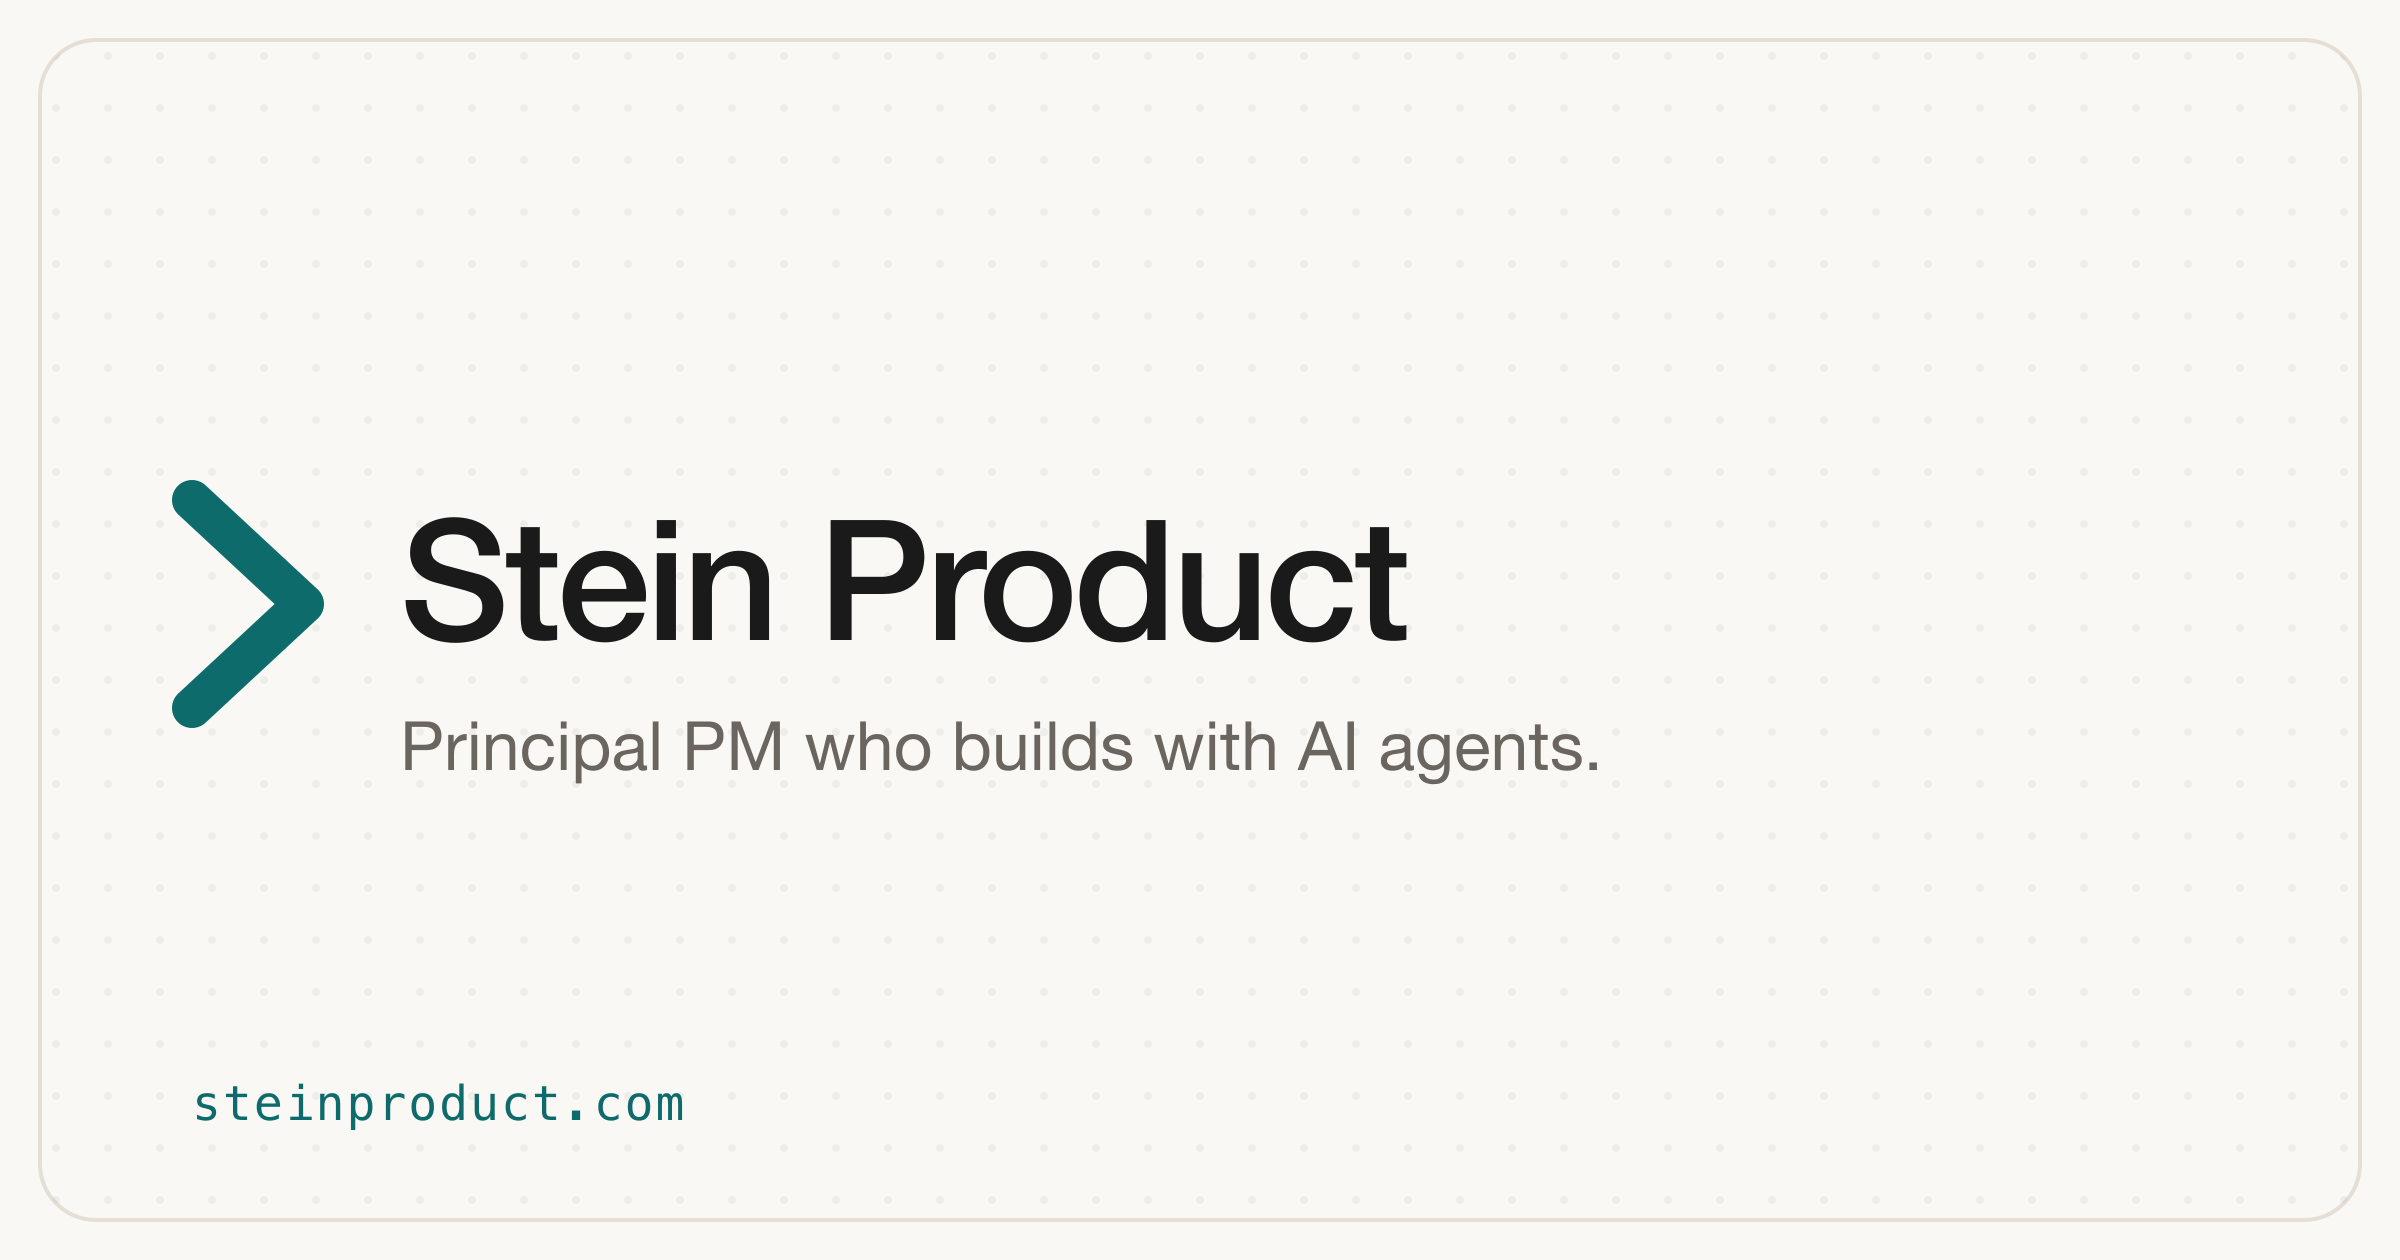
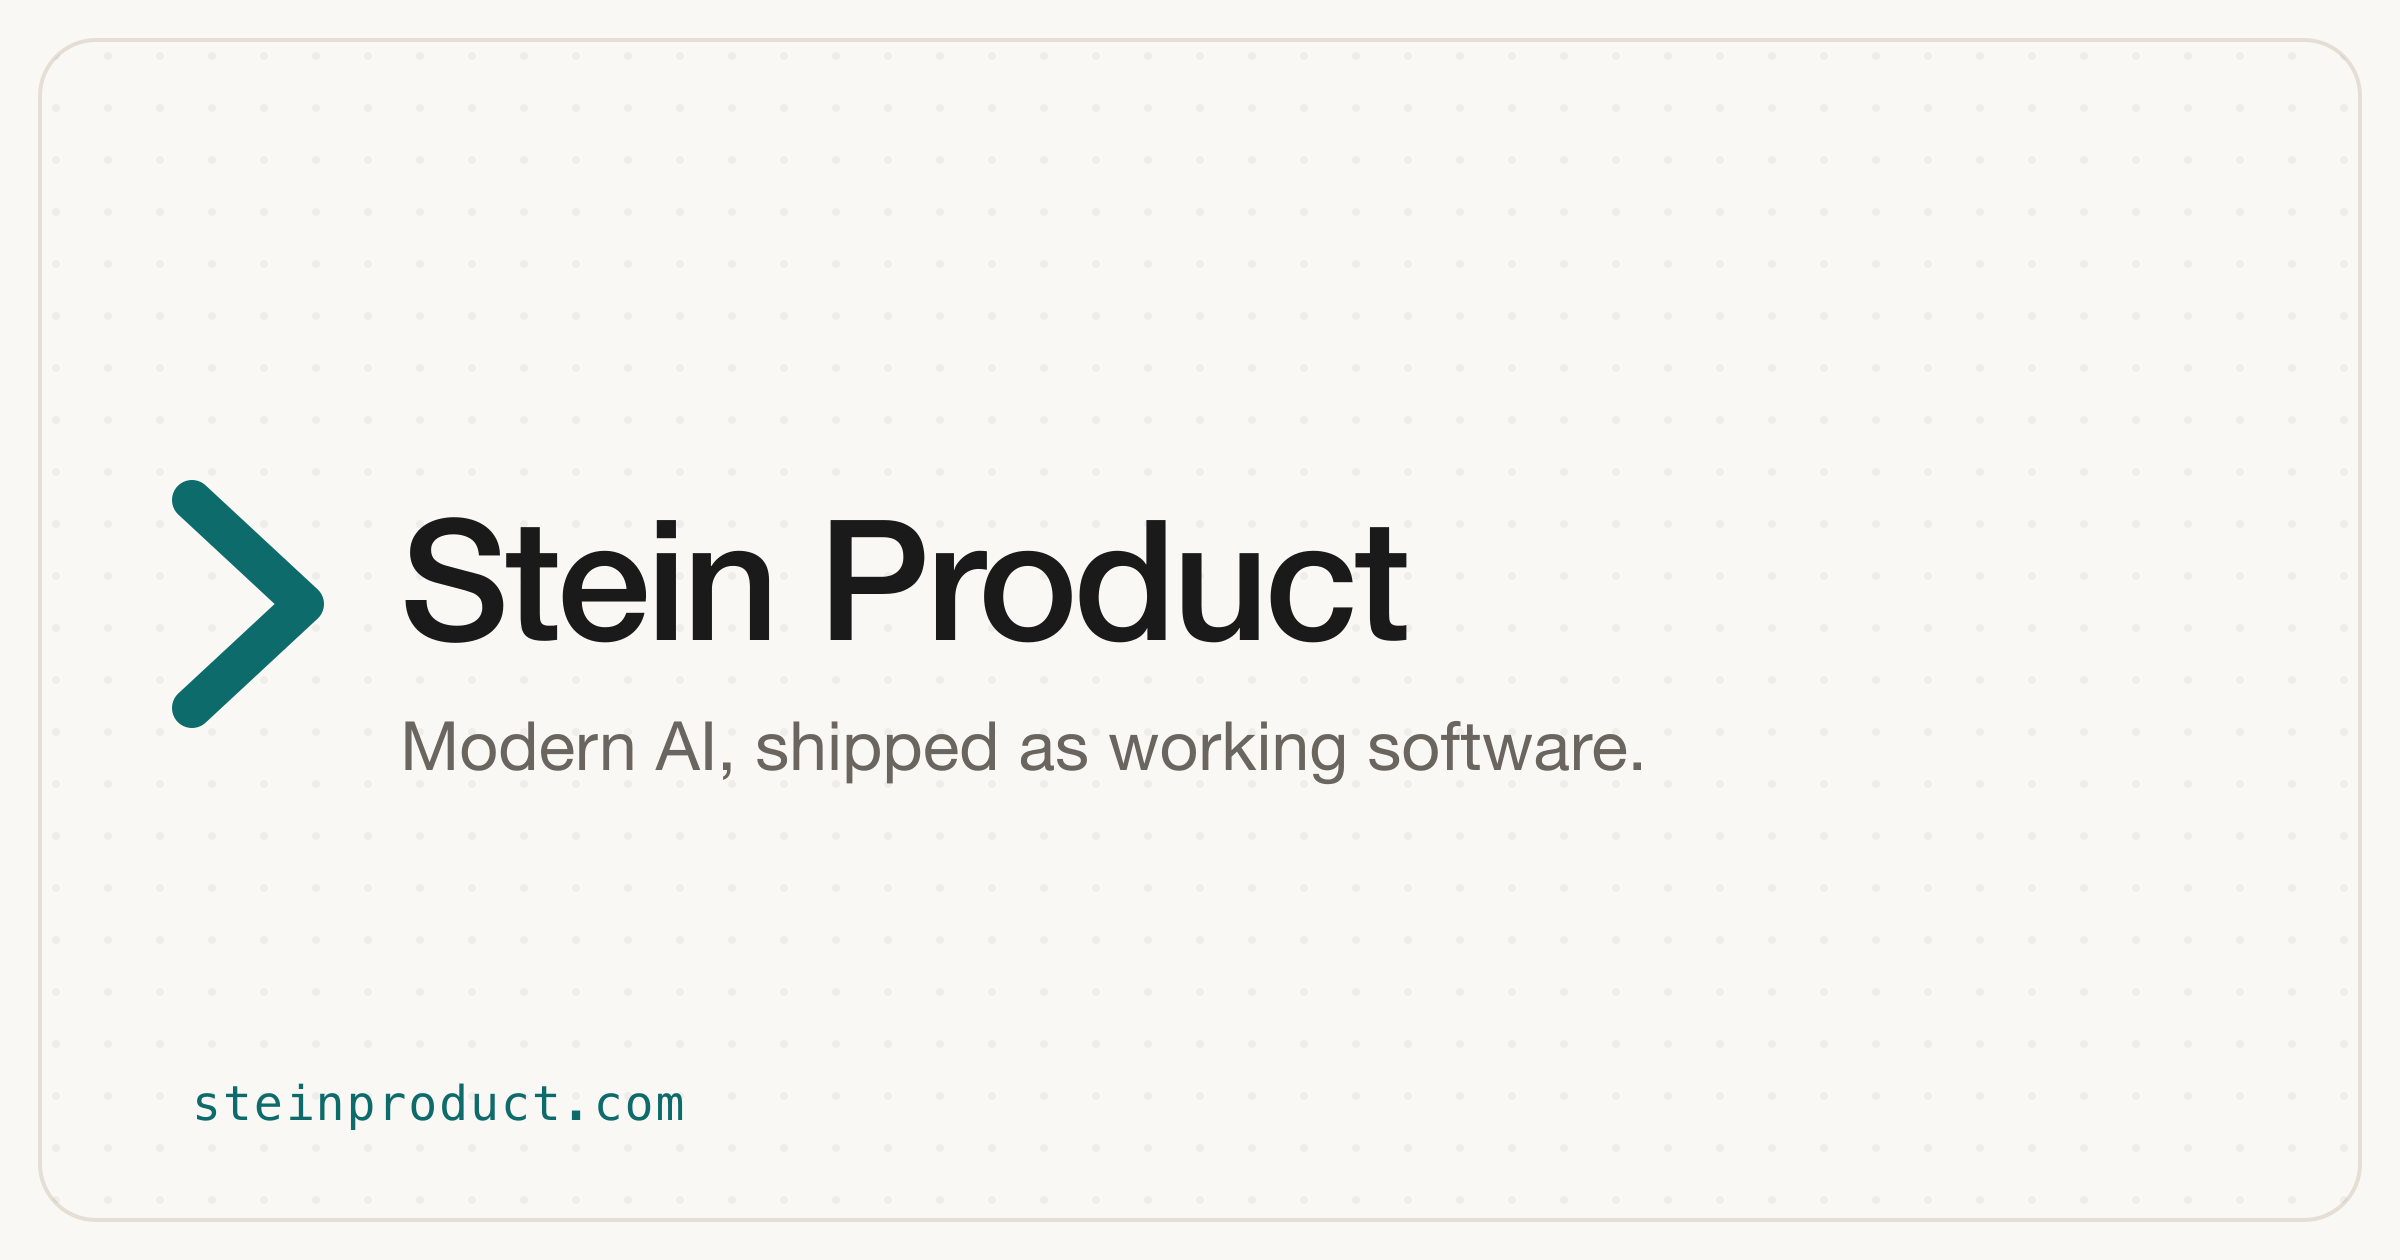
Reposition the site to firm-led, named-principal voice
Supersedes the site-wide first-person voice from the 2026-07-14 conversion
audit. Structural copy now speaks as Stein Product; Jacob stays the named
principal where the claim is personal.

- hero + layout meta: the approved practice-voice subhead, retitled around
  consulting, and "AI agents" swapped for "AI assistants" in keywords.
- services/faq/process/projects: practice as subject, or second person where a
  named subject read stiff. Promises keep a live subject rather than going
  passive — "you get a narrower scope" over "the scope narrows".
- process step 2 becomes "Built for you, then handed over"; it can't take "we",
  which here means client plus consultant, and the step's point is that the
  client doesn't do the work.
- projects.ts drops "shipped solo" — a one-person tell no pronoun sweep catches.
- tagline is now "Modern AI, shipped as working software.", which also feeds the
  manifest description and the OG card; regenerated opengraph-image.png to match
  (it had been baking in "Principal PM who builds with AI agents").
- CLAUDE.md records the new voice rule plus its two deliberate exceptions: the
  first-person about bio, and the buyer-voice FAQ questions.

Testimonial and case study untouched. First-person hits in the shipped page go
from 49 to 25 — all inside the Matthew quote, the about bio, buyer-voice FAQ
questions, or a client+consultant "we".

Per handoffs/handoff-firm-voice.md.

Changed region(s): [[0.1562, 0.5571, 0.6875, 0.619]]

diff --git a/src/content/services.ts b/src/content/services.ts
@@ -62,12 +62,12 @@ export const serviceBuckets: ServiceBucket[] = [
     headline: "Custom automation for your business",
     pitch: "Stop doing it by hand.",
     description:
-      "You have a repetitive workflow — data entry, document generation, copy-paste between tools. I assess it, recommend the most cost-effective approach using tools you already pay for, and build something that works the way you work.",
+      "You have a repetitive workflow — data entry, document generation, copy-paste between tools. Stein Product assesses it, recommends the most cost-effective approach using tools you already pay for, and builds something that works the way you work.",
     entryOffer: {
       name: "AI Quick-Win",
       price: "$1,500 flat",
       detail:
-        "A 90-minute kickoff to pick the workflow and lock the scope. I build it, then hand it over live: a working automation, a recorded walkthrough, and written docs — within a week.",
+        "A 90-minute kickoff to pick the workflow and lock the scope. You get it built and handed over live: a working automation, a recorded walkthrough, and written docs — within a week.",
       guarantee:
         "If it isn't live and documented within a week of kickoff, the follow-up session is free.",
     },
@@ -80,7 +80,7 @@ export const serviceBuckets: ServiceBucket[] = [
     headline: "A custom AI assistant for your business",
     pitch: "An AI teammate that handles a job around the clock.",
     description:
-      "Triaging inbound requests, drafting the weekly report, answering questions from your documents — built to do one job well. Everything you end up with runs in your accounts, on your keys — your data stays yours. I build and operate AI assistants for my own work every day; now I build them for businesses.",
+      "Triaging inbound requests, drafting the weekly report, answering questions from your documents — built to do one job well. Everything you end up with runs in your accounts, on your keys — your data stays yours. Stein Product runs on these assistants every day; now it builds them for businesses.",
     priceAnchor: "Scoped per engagement.",
     ctaLabel: "Let's scope it",
     productKey: "aiAssistant",
@@ -102,11 +102,11 @@ export const retainer: Retainer = {
   headline: "Enablement Retainer — $2,000/mo",
   kicker: "The usual path: start with a Quick-Win, then keep going.",
   description:
-    "For teams that want this every month: one automation of Quick-Win scope shipped each month, plus upkeep of everything I've built for you. A shared list of what's next so you always know what's coming, same-day weekday responses, and a monthly what's-new briefing. Month-to-month, cancel anytime.",
+    "For teams that want this every month: one automation of Quick-Win scope shipped each month, plus upkeep of everything already built for you. A shared list of what's next so you always know what's coming, same-day weekday responses, and a monthly what's-new briefing. Month-to-month, cancel anytime.",
   ctaLabel: "Start a retainer",
   productKey: "retainer",
 };
 
 /** Small print under the section — how every engagement is priced. */
 export const pricingNote =
-  "Every engagement is fixed-scope and priced on the outcome, not the hour. Projects start with a 50% deposit. If budget is tight, I narrow the scope — not the quality.";
+  "Every engagement is fixed-scope and priced on the outcome, not the hour. Projects start with a 50% deposit. If budget is tight, you get a narrower scope — never lower quality.";

diff --git a/src/content/faq.ts b/src/content/faq.ts
@@ -12,17 +12,17 @@ export const faqItems: FaqItem[] = [
   {
     question: "What tools do I need?",
     answer:
-      "Whatever you already have. I build with the tools you pay for today — the assessment includes recommending the cheapest path, not selling you new software.",
+      "Whatever you already have. Stein Product builds with the tools you pay for today — the assessment includes recommending the cheapest path, not selling you new software.",
   },
   {
     question: "We're not technical. Is that a problem?",
     answer:
-      "No. You bring the workflow knowledge; I bring the build. You'll be able to run everything without me.",
+      "No. You bring the workflow knowledge; Stein Product brings the build. You'll be able to run everything yourself.",
   },
   {
     question: "What about our data?",
     answer:
-      "The finished automation runs in your accounts, on your keys — your data stays yours. During the build we work wherever you're comfortable: directly in your systems, or in a sandbox I hand over at the end.",
+      "The finished automation runs in your accounts, on your keys — your data stays yours. During the build we work wherever you're comfortable: directly in your systems, or in a sandbox handed over at the end.",
   },
   {
     question: "What happens after you build it?",
@@ -32,11 +32,11 @@ export const faqItems: FaqItem[] = [
   {
     question: "How does pricing work?",
     answer:
-      "Fixed scope, priced on the outcome, never hourly. Projects start with a 50% deposit. If budget is tight, I narrow the scope — not the quality.",
+      "Fixed scope, priced on the outcome, never hourly. Projects start with a 50% deposit. If budget is tight, you get a narrower scope — never lower quality.",
   },
   {
     question: "What if it takes longer than a week?",
     answer:
-      "Most Quick-Wins ship inside a week. If your workflow needs more than that, you'll know at kickoff — before I build — and we either narrow the scope to fit, or I quote a fixed-scope build instead. No surprise invoices.",
+      "Most Quick-Wins ship inside a week. If your workflow needs more than that, you'll know at kickoff — before the build starts — and we either narrow the scope to fit, or you get a quote for a fixed-scope build instead. No surprise invoices.",
   },
 ];

diff --git a/src/components/sections/about.tsx b/src/components/sections/about.tsx
@@ -2,8 +2,11 @@ import Image from "next/image";
 import { Container, Eyebrow } from "@/components/section";
 import { Reveal } from "@/components/reveal";
 
+// Stein Product speaks as a practice everywhere else on the page; this bio
+// stays first-person on purpose (2026-08-13) — the credentials are personal and
+// read false in third person. The lead-in names the practice, then Jacob speaks.
 const PARAGRAPHS = [
-  "I spent my career shipping software where the stakes were high: aerospace and defense at Boeing and Maxar, and consumer sports betting — real-money products where millions of players and their money move through the app. I led product as a Principal IC, figuring out what to build, why it matters, and how to ship it without breaking the things that can't break.",
+  "Stein Product is led by Jacob Stein. I spent my career shipping software where the stakes were high: aerospace and defense at Boeing and Maxar, and consumer sports betting — real-money products where millions of players and their money move through the app. I led product as a Principal IC, figuring out what to build, why it matters, and how to ship it without breaking the things that can't break.",
   "Now I do that for businesses of every size, with AI. Most teams have three or four things they've been meaning to fix for a year: the report nobody wants to assemble, the data that gets copied between tools by hand, the process that lives in one person's head. I help you get organized, find the fix with the highest payoff, and build it for you, fast. You don't get a slide deck. You get something that works.",
   'I build with modern AI tooling and ship real software, so "automation" means something that actually runs, not a fragile prototype. That includes consumer products at scale.',
 ] as const;

diff --git a/src/app/layout.tsx b/src/app/layout.tsx
@@ -18,10 +18,10 @@ const geistMono = Geist_Mono({
 });
 
 const description =
-  "I'm Jacob Stein, a Principal-level product manager. I help small businesses get organized and put AI to work on the workflows that actually run — starting with the one costing you the most, live within a week.";
+  "Stein Product is a consulting practice led by Jacob Stein, a Principal-level product manager. It gets small businesses organized and puts AI to work on the workflows that actually run — starting with the one costing you the most, live within a week.";
 
 const title =
-  "Stein Product — AI automation for small businesses, built by a Principal PM";
+  "Stein Product — AI automation consulting for small businesses";
 
 export const metadata: Metadata = {
   metadataBase: new URL(SITE.url),
@@ -36,7 +36,7 @@ export const metadata: Metadata = {
   keywords: [
     "AI automation",
     "product consulting",
-    "AI agents",
+    "AI assistants",
     "small business automation",
     "fractional product manager",
     "workflow automation",

diff --git a/src/content/process.ts b/src/content/process.ts
@@ -21,13 +21,13 @@ export const processSteps: ProcessStep[] = [
       "30 minutes. We list what you do by hand and pick the workflow with the highest payoff.",
   },
   {
-    title: "I build, then hand you the keys",
+    title: "Built for you, then handed over",
     detail:
-      "I do the building, working through the messy parts so you don't have to. You get a live demo, a recorded walkthrough, and written docs your team can run without me.",
+      "Stein Product does the building, working through the messy parts so you don't have to. You get a live demo, a recorded walkthrough, and written docs your team can run on its own.",
   },
   {
     title: "You own everything",
     detail:
-      "The finished automation lives in your accounts, on your keys — your data stays yours, and nothing breaks if you stop working with me.",
+      "The finished automation lives in your accounts, on your keys — your data stays yours, and nothing breaks if the engagement ends.",
   },
 ];

diff --git a/src/components/sections/hero.tsx b/src/components/sections/hero.tsx
@@ -27,10 +27,11 @@ export function Hero() {
             Your busy work, automated — live within a week.
           </h1>
           <p className="mt-6 max-w-2xl text-lg leading-relaxed text-muted-foreground">
-            I&apos;m Jacob Stein. I get businesses organized and put AI to work
-            on the workflows costing them the most. Before this, I shipped
-            software as a Principal PM at Boeing, Maxar, and real-money consumer
-            sports-betting apps used by millions of players.
+            Stein Product is a consulting practice that gets businesses
+            organized and puts AI to work on the workflows costing them the
+            most. It&apos;s led by Jacob Stein, a Principal product manager who
+            shipped software at Boeing, Maxar, and real-money sports-betting
+            apps used by millions of players.
           </p>
           <div
             className="intro mt-9 flex flex-col gap-3 sm:flex-row sm:items-center"

diff --git a/src/components/sections/cta-band.tsx b/src/components/sections/cta-band.tsx
@@ -20,7 +20,7 @@ export function CtaBand() {
                 Got something you&apos;ve been meaning to fix or automate?
               </h2>
               <p className="mt-4 text-base leading-relaxed text-muted-foreground">
-                Book a free intro call. I&apos;ll find the one with the highest
+                Book a free intro call. We&apos;ll find the one with the highest
                 payoff and scope a first build — 30 minutes, no obligation.
               </p>
               <div className="mt-8 flex flex-col items-center justify-center gap-3 sm:flex-row">

diff --git a/src/components/sections/services.tsx b/src/components/sections/services.tsx
@@ -17,7 +17,7 @@ export function Services() {
     <section id="services" className="scroll-mt-20 border-t border-border/70 py-20 sm:py-28">
       <Container>
         <SectionHeader
-          eyebrow="WHAT I CAN BUILD FOR YOU"
+          eyebrow="WHERE TO START"
           title="Three ways to get things off your plate."
           intro="Each is an outcome, not a block of hours. Start with a Quick-Win, a fixed-scope build, or an advisory call — whichever fits the problem."
         />

diff --git a/src/content/projects.ts b/src/content/projects.ts
@@ -31,7 +31,7 @@ export const projects: Project[] = [
     id: "this-site",
     title: "steinproduct.com — this site",
     description:
-      "A statically-exported Next.js build, designed and shipped solo with the same AI-augmented workflow I sell.",
+      "A statically-exported Next.js build, designed and shipped with the same AI-augmented workflow behind every engagement.",
     tags: ["Next.js", "Static export", "Design"],
     label: "Own build",
   },

diff --git a/src/config/links.ts b/src/config/links.ts
@@ -18,7 +18,7 @@ export const SITE = {
   wordmark: "SteinProduct",
   domain: "steinproduct.com",
   url: "https://steinproduct.com",
-  tagline: "Principal PM who builds with modern AI.",
+  tagline: "Modern AI, shipped as working software.",
   location: "Denver, CO",
   email: "jacob@steinproduct.com", // Cloudflare Email Routing -> jacob.stein.22@gmail.com
 } as const;

diff --git a/src/components/site-footer.tsx b/src/components/site-footer.tsx
@@ -22,7 +22,7 @@ export function SiteFooter() {
           </p>
           {SOCIAL.substack ? (
             <p className="mt-4 text-sm leading-relaxed text-muted-foreground">
-              I write about AI and product on{" "}
+              Jacob writes about AI and product on{" "}
               <a
                 href={SOCIAL.substack}
                 target="_blank"

diff --git a/CLAUDE.md b/CLAUDE.md
@@ -1,5 +1,20 @@
 @AGENTS.md
 
+## Voice
+Firm-led, named-principal, as of 2026-08-13 — this **supersedes the site-wide first-person
+voice from the 2026-07-14 conversion audit**. Structural and positioning copy speaks as
+"Stein Product"; Jacob is named as the principal where the claim is personal, never erased.
+No "we/our" that implies employees — "we" is allowed only where it plainly means client plus
+consultant (the intro call, the build working session). Never fabricate plurality: no "our
+team", no headcount, no invented roles. Firm voice is not passive voice — keep a live subject
+in every promise and use second person when a named subject reads stiff. Use "the practice"
+sparingly and never as a section label.
+
+Two deliberate exceptions, not stragglers to be "fixed":
+- `about.tsx` keeps its first-person bio — the credentials are personal.
+- FAQ questions are written in the buyer's voice ("What tools do I need?", "We're not
+  technical", "What about our data?"); those pronouns are the client speaking.
+
 ## Client proof
 Habitat for Humanity Inland Valley is named on the site, and Matthew's testimonial runs
 verbatim, as of 2026-08-12 — both cleared by the client in writing (permission on record at
